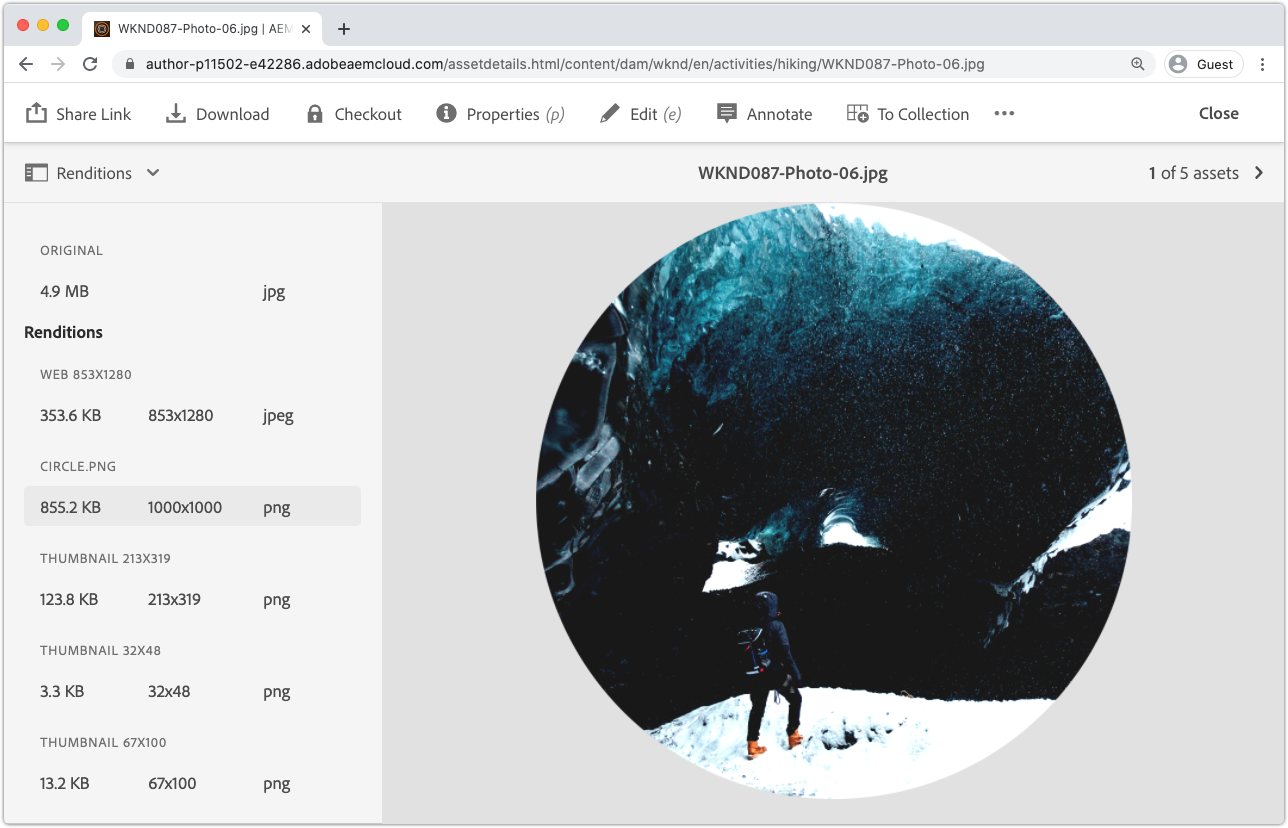
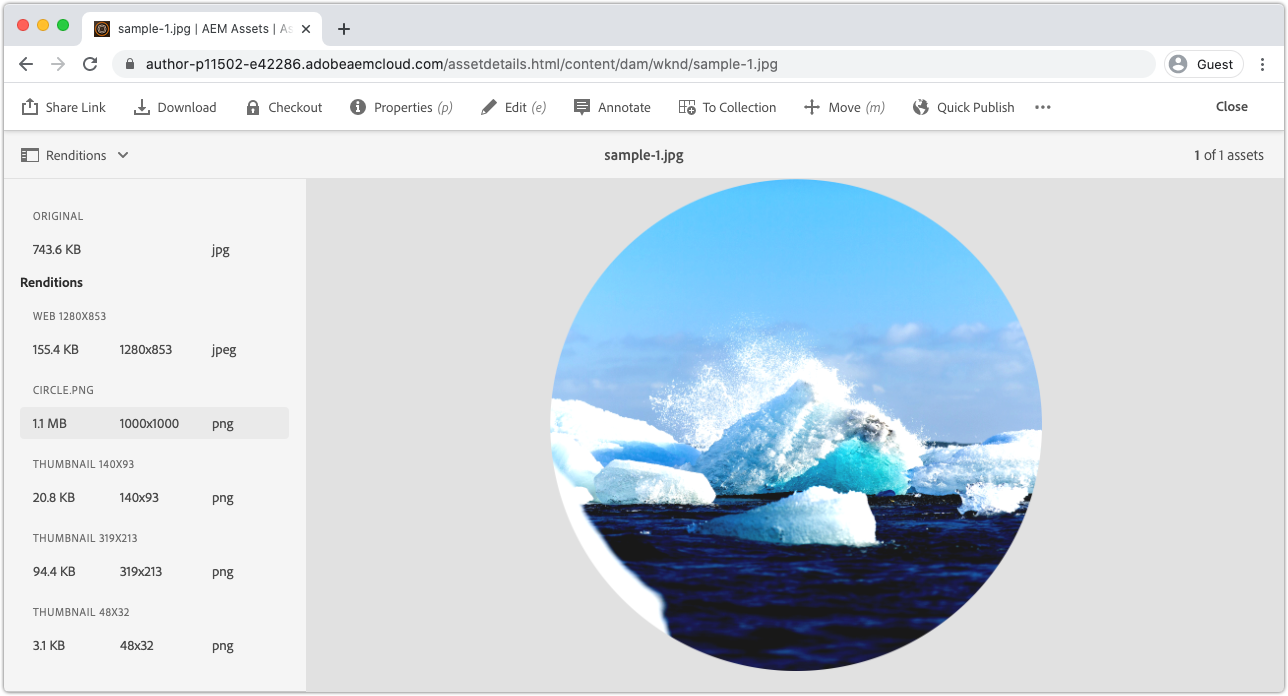
Kt 6304 asset compute intro video (#433)
* KT-6304 - Added intro video as cleaned up sample files.

diff --git a/help/cloud-service/asset-compute/test-debug/test.md b/help/cloud-service/asset-compute/test-debug/test.md
@@ -51,7 +51,7 @@ Each test cast can have the following files:
     + Optional, defaults to the `diff` command
     + Use a shell script that wraps a docker run command for using different validation tools
 + `mock-<host-name>.json`
-    + JSON formatted HTTP responses for [mocking external service calls](https://www.mock-server.com/mock_server/creating_expectations.html). (
+    + JSON formatted HTTP responses for [mocking external service calls](https://www.mock-server.com/mock_server/creating_expectations.html).
     + Optional, only used if the worker code makes HTTP requests of its own
 
 ## Writing a test case
@@ -83,7 +83,7 @@ This test case asserts the parameterized input (`params.json`) for the input fil
 This test case tests to ensure the worker throws the appropriate error when the `contrast` parameter is set to an invalid value.
 
 1. Create a new test case folder at `/test/asset-compute/worker/error-contrast` to test a erring execution of the worker due to an invalid `contrast` parameter value.
-1. In the `error-contrast` folder, add the test [input file](./assets/test/error-contrast/file.jpg) for this test case and name it `file.jpg`. The contents of this file is immaterial to this test, it just needs to exist to get past the __Corrupt source__ check, in order to reach the `rendition.instructions` validity checks, that this test case validates.
+1. In the `error-contrast` folder, add the test [input file](./assets/test/error-contrast/file.jpg) for this test case and name it `file.jpg`. The contents of this file is immaterial to this test, it just needs to exist to get past the "Corrupt source" check, in order to reach the `rendition.instructions` validity checks, that this test case validates.
 1. In the `error-contrast` folder, add a new file named `params.json` that defines the input parameters of the worker with the contents:
  
     ```json

diff --git a/help/cloud-service/asset-compute/deploy/processing-profiles.md b/help/cloud-service/asset-compute/deploy/processing-profiles.md
@@ -56,14 +56,19 @@ First create a new Processing Profile that will invoke the worker with the confi
 
 1. Select the newly created Processing Profile, `WKND Asset Renditions`
 1. Tap __Apply Profile to Folder(s)__ in the top action bar
-1. Select an a folder to apply the Processing Profile to, such as `WKND` and tap __Apply__
+1. Select a folder to apply the Processing Profile to, such as `WKND` and tap __Apply__
 1. Navigate to the folder the Processing Profile was not applied to via __AEM > Assets > Files__ and tap into `WKND`.
-1. Upload a [new asset](../assets/samples/sample-file.jpg) to the folder that has the new Processing Profile applied, and wait for the uploaded asset to be processed.
+1. Upload some new images assets ([sample-1.jpg](../assets/samples/sample-1.jpg), [sample-2.jpg](../assets/samples/sample-2.jpg), and [sample-3.jpg](../assets/samples/sample-3.jpg)) in any folder under the folder with the Processing Profile applied, and wait for the uploaded asset to be processed.
 1. Tap the asset to open its details
+    + Default renditions may generate and appear more quickly in AEM than custom renditions.
 1. Open the __Renditions__ view from the left sidebar
 1. Tap on the asset named `Circle.png` and review the generated rendition
 
     ![Generated rendition](./assets/processing-profiles/rendition.png)
+
+## Finished!
+
+Congratulations! you have finished the [tutorial](../overview.md) on how to extend AEM as a Cloud Service Asset Compute microservices! You should now have the ability to set up, develop, test, debug and deploy custom Asset Compute workers for use by your AEM as a Cloud Service Author service.
 
 ## Troubleshooting
 

diff --git a/help/cloud-service/overview.md b/help/cloud-service/overview.md
@@ -13,6 +13,10 @@ Adobe Experience Manager (AEM) is now available as a Cloud Service. AEM as a Clo
 
 ## What's New
 
+* **[Asset Compute microservices extensibility (Tutorial)](./asset-compute/overview.md)**
+    <br>
+    *Learn how to develop  Asset Compute workers to generate custom asset renditions*
+
 * **[Configuring access to AEM as a Cloud Service (Tutorial)](./accessing/overview.md)**
     <br>
     *Learn how to configure IMS users in Adobe Admin Console so they can access AEM*
@@ -28,15 +32,6 @@ Adobe Experience Manager (AEM) is now available as a Cloud Service. AEM as a Clo
 * **[Local Development Environment Set Up (Tutorial)](./local-development-environment/overview.md)**
     <br>
     *Learn how to set up your local development machine for AEM as a Cloud Service development*
-
-* **[Understand Processing Profiles and Assets microservices (Video)](https://docs.adobe.com/content/help/en/experience-manager-cloud-service/assets/manage/asset-microservices-configure-and-use.html#get-started)**
-   <br>
-   *Learn about how Adobe Experience Manager as a Cloud Service uses Assets microservices and Processing Profiles to create asset renditions*
-
-* **[Understand the Structure of a Project Content Package (Article)](https://docs.adobe.com/content/help/en/experience-manager-cloud-service/implementing/developing/aem-project-content-package-structure.html)**
-    <br>
-    *Adobe Experience Manager as a Cloud Service adjusts the Maven Project structure, clearly separating Code from Content*
-
 
 ## Staff Picks
 

diff --git a/help/cloud-service/asset-compute/overview.md b/help/cloud-service/asset-compute/overview.md
@@ -19,7 +19,7 @@ Whereas in AEM 6.x custom AEM Workflow processes were used to read, transform, a
 
 ## What you will build
 
-![Asset Compute tutorial example](./assets/overview/before-and-after.png)
+>[!VIDEO](https://video.tv.adobe.com/v/40965?quality=12&learn=on)
 
 This tutorial walks through the creation of a simple Asset Compute worker that crops an image to a circle, applies configurable contrast and brightness. While the worker itself is basic, this tutorial uses it to explore creating, developing, and deploying a custom Asset Compute worker for use with AEM as a Cloud Service.
 
@@ -126,11 +126,11 @@ The following are various Adobe resources that provide further information and u
 + [Asset Compute Service documentation](https://docs.adobe.com/content/help/en/asset-compute/using/extend/understand-extensibility.html)
 + [Asset Compute Development Tool readme](https://github.com/adobe/asset-compute-devtool)
 
-## Other code samples
+### Other code samples
 
 + [Asset Compute example workers](https://github.com/adobe/asset-compute-example-workers)
 
-## APIs and SDKs
+### APIs and SDKs
 
 + [Asset Compute SDK](https://github.com/adobe/asset-compute-sdk)
     + [Asset Compute Commons](https://github.com/adobe/asset-compute-commons)
